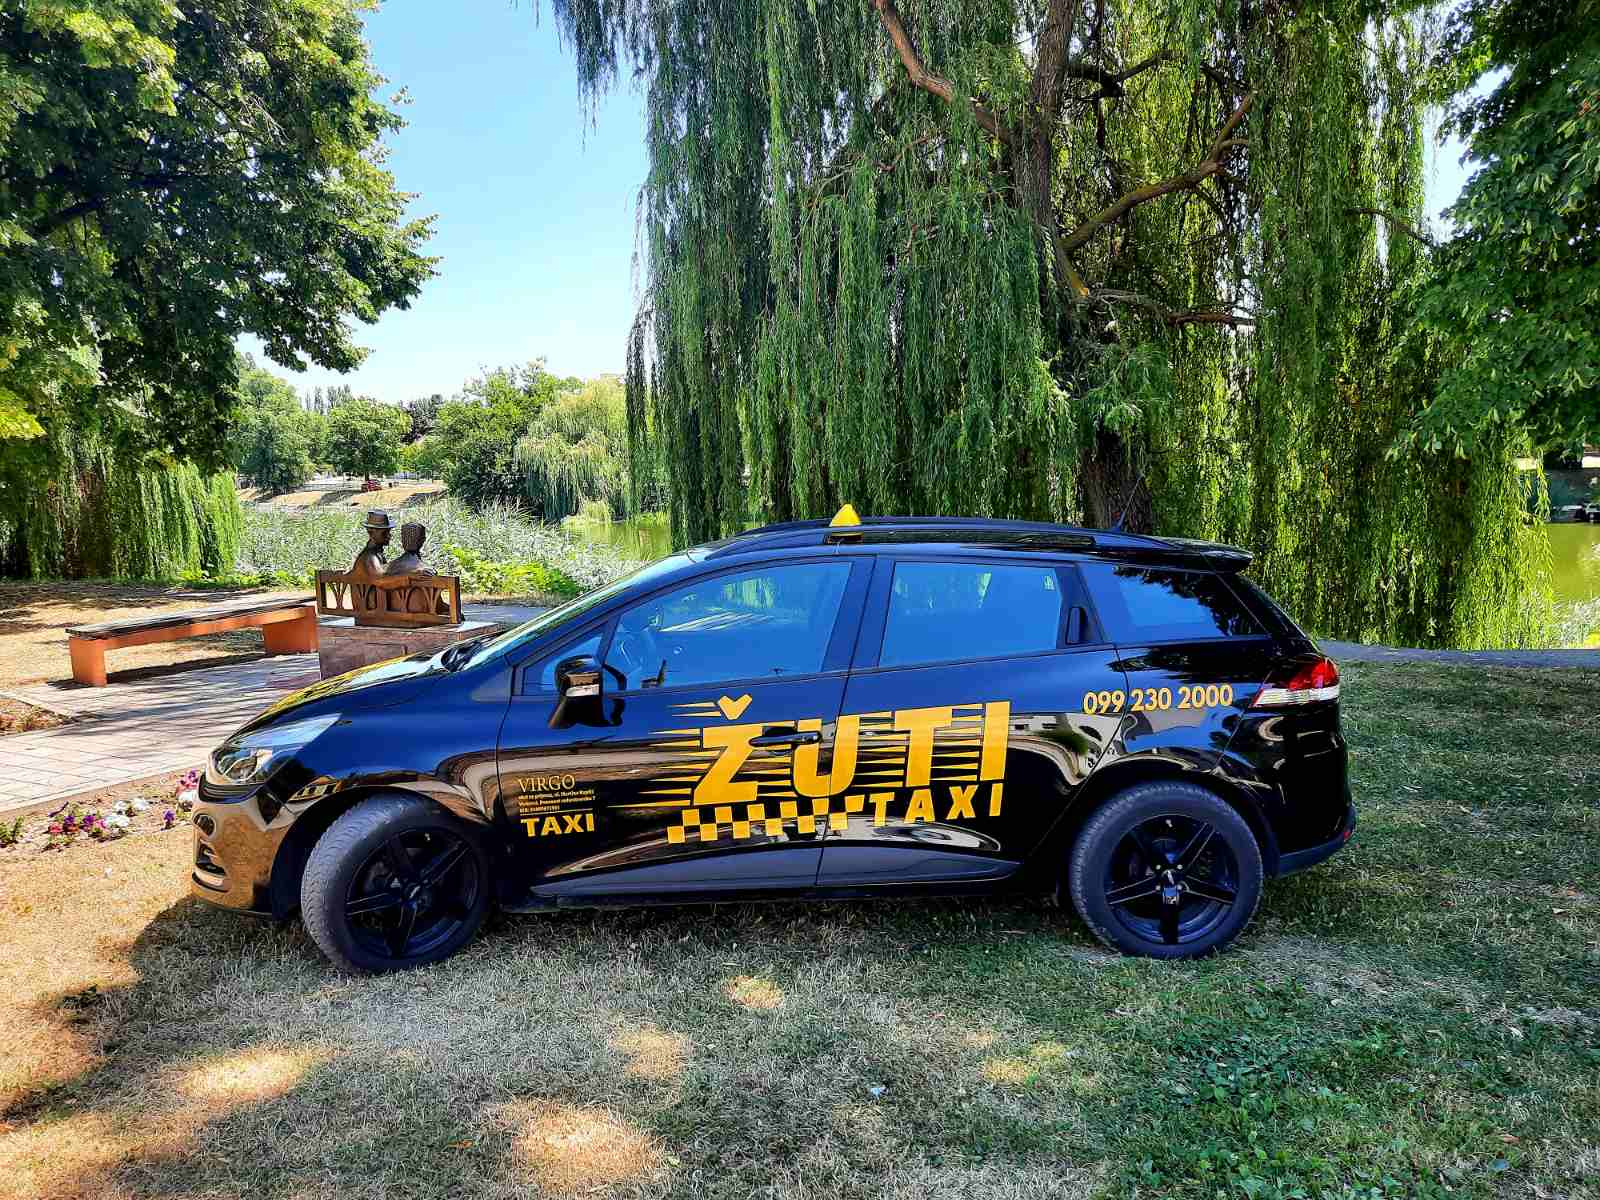
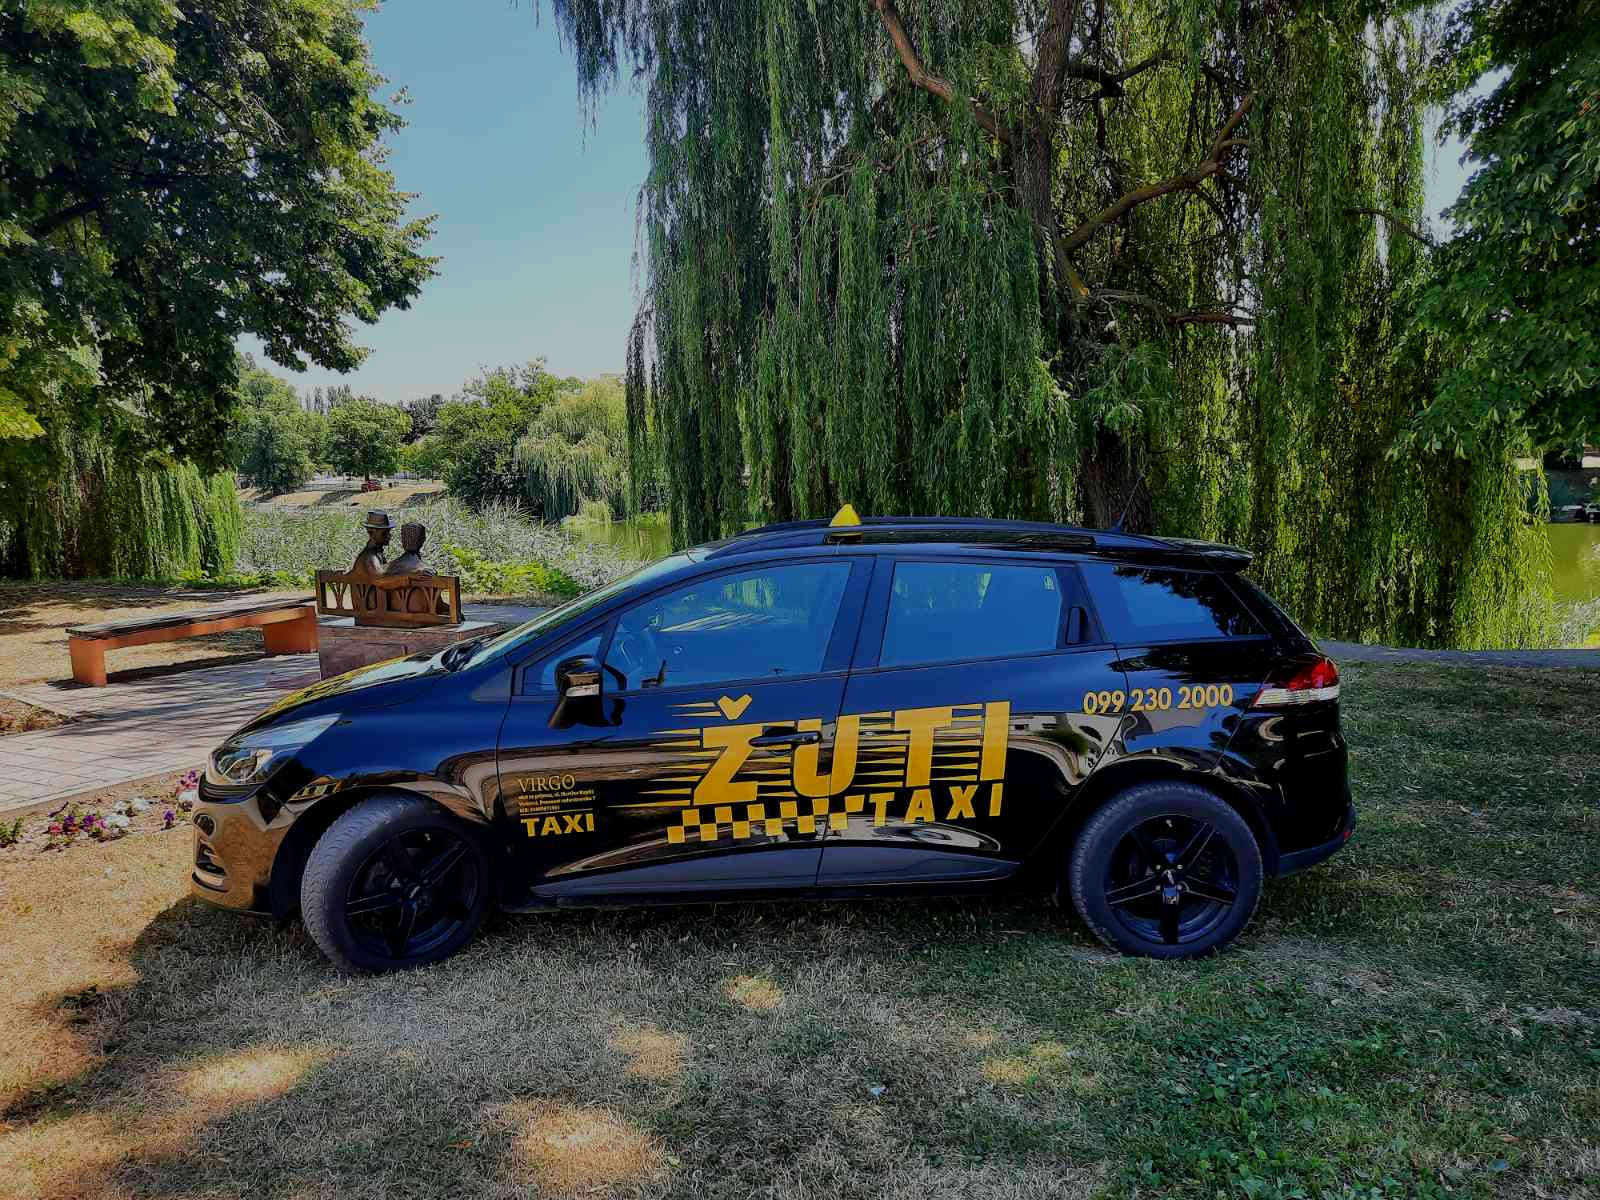
added routing, added carousel

diff --git a/src/Home.jsx b/src/Home.jsx
@@ -10,9 +10,6 @@ import PlavaVinkovacka from "./assets/images/PlavaVinkovacka.png";
 import OptikaMarko from "./assets/images/OptikaMarko.jpg";
 import Pattern from "./assets/images/blackAndYellow.png";
 import Facebook from "./assets/images/Facebook.png";
-import Whatsapp from "./assets/images/Whatsapp.png";
-import Viber from "./assets/images/Viber.png";
-import WhatsappLogo from "./assets/images/Whatsapp_logo.png";
 import PhoneInvert from "./assets/images/PhoneInvert.png";
 import WhatsappInvert from "./assets/images/WhatsappInvert.png";
 import ViberButton from "./assets/images/ViberButton.png";
@@ -20,21 +17,27 @@ import FacebookInvert from "./assets/images/FacebookInvert.png";
 import leftArrow from "./assets/images/LeftArrow.png";
 import rightArrow from "./assets/images/RightArrow.png";
 import HomeEn from "./HomeEn";
+import DemoCarousel from "./DemoCarousel";
+
 const Home = () => {
+  // var Carousel = require("react-responsive-carousel").Carousel;
+
   return (
     <div>
       {/* NUMBER NAVBAR */}
       <div className="sticky top-0 z-10">
         <div className="flex justify-center bg-taxiBlack py-2">
-          <div className="flex justify-between ">
-            <div>
-              <img src={Phone} className="w-8 pr-2" />
+          <a href="tel:+385992302000">
+            <div className="flex justify-between ">
+              <div>
+                <img src={Phone} className="w-8 pr-2" />
+              </div>
+              <h1 className="text-taxiYellow font-bold pr-2">099 230 2000</h1>
+              <div>
+                <img src={Phone} className="w-8 pr-2" />
+              </div>
             </div>
-            <h1 className="text-taxiYellow font-bold pr-2">099 230 2000</h1>
-            <div>
-              <img src={Phone} className="w-8 pr-2" />
-            </div>
-          </div>
+          </a>
         </div>
       </div>
       {/* NAVBAR */}
@@ -111,25 +114,8 @@ const Home = () => {
       {/* IMG TEMP  */}
       <div className="w-full h-8 blackAndYellow"></div>
       {/* NASLOVNA */}
-      <div className="overflow-hidden taxiTEMP">
-        <div className="flex flex-col w-screen h-[82vh] justify-around py-36 md:py-auto md:justify-center md:gap-24">
-          <div className="flex items-center justify-center">
-            <div className="flex">
-              <div className="md:p-8 bg-taxiBlack text-taxiYellow mx-8 md:mx-auto md:px-auto  text-2xl md:text-4xl font-semibold rounded-xl text-center">
-                <h1 className>Najbolja Taxi Služba u Vinkovcima i okolici!</h1>
-              </div>
-            </div>
-          </div>
-          <div className="flex flex-row justify-center md:justify-between px-4 items-center">
-            <img src={leftArrow} className="h-4 md:h-16 hidden md:block" />
-            <a href="tel:+385992302000">
-              <h1 className="text-3xl md:text-7xl font-extrabold bg-taxiBlack p-4 md:p-12 rounded-xl text-taxiYellow">
-                099 230 2000
-              </h1>
-            </a>
-            <img src={rightArrow} className="h-4 md:h-16 hidden md:block" />
-          </div>
-        </div>
+      <div className="hidden md:block">
+        <DemoCarousel />
       </div>
       {/* CJENIK I KONTAKT  */}
       <div className="overflow-x-hidden" id="kontakt">
@@ -224,7 +210,7 @@ const Home = () => {
             <div className="flex md:hidden justify-center pt-8 pb-12 font-bold text-3xl md:text-4xl text-taxiBlack">
               <h1>Kontakt</h1>
             </div>
-            <section className="flex md:hidden flex-col md:flex-row md:h-96 justify-center text-center md:gap-x-16 mx-8 md:mx-auto mb-12 text-taxiYellow">
+            <section className="flex md:hidden flex-col md:flex-row md:h-96 justify-center text-center md:gap-x-16 mx-8 md:mx-auto text-taxiYellow">
               <article className="bg-taxiBlack backdrop-blur-none rounded-[16px] p-8 md:basis-1/4 mb-12 md:mb-auto h-full">
                 <div className="flex justify-center">
                   <span className="p-8 absolute glassmorphismBlack rounded-full top-[-2rem]"></span>

diff --git a/src/HomeEn.jsx b/src/HomeEn.jsx
@@ -3,22 +3,19 @@ import Logo from "./assets/images/Logo.png";
 import HRV from "./assets/images/HRV.png";
 import ENG from "./assets/images/ENG.png";
 import { Link as Link1 } from "react-scroll";
+import { Link } from "react-router-dom";
 import Phone from "./assets/images/Phone.png";
 import ImgTemp from "./components/ImgTemp";
 import PlavaVinkovacka from "./assets/images/PlavaVinkovacka.png";
 import OptikaMarko from "./assets/images/OptikaMarko.jpg";
 import Pattern from "./assets/images/blackAndYellow.png";
 import Facebook from "./assets/images/Facebook.png";
-import Whatsapp from "./assets/images/Whatsapp.png";
-import Viber from "./assets/images/Viber.png";
-import WhatsappLogo from "./assets/images/Whatsapp_logo.png";
 import PhoneInvert from "./assets/images/PhoneInvert.png";
 import WhatsappInvert from "./assets/images/WhatsappInvert.png";
 import ViberButton from "./assets/images/ViberButton.png";
 import FacebookInvert from "./assets/images/FacebookInvert.png";
 import leftArrow from "./assets/images/LeftArrow.png";
 import rightArrow from "./assets/images/RightArrow.png";
-import { Link } from "react-router-dom";
 const HomeEn = () => {
   return (
     <div>
@@ -53,7 +50,7 @@ const HomeEn = () => {
               duration={500}
               className="pr-8 text-lg"
             >
-              <button>Naslovna </button>
+              <button>Home</button>
             </Link1>
             <Link1
               to="cjenik"
@@ -63,7 +60,7 @@ const HomeEn = () => {
               duration={500}
               className="pr-8 text-lg"
             >
-              <button>Cjenik</button>
+              <button>Pricing</button>
             </Link1>
             <Link1
               to="kontakt"
@@ -73,7 +70,7 @@ const HomeEn = () => {
               duration={500}
               className="text-lg"
             >
-              <button>Kontakt</button>
+              <button>Contact Us</button>
             </Link1>
           </div>
           <div className="hidden w-full md:flex md:flex-row md:w-auto relative">
@@ -83,8 +80,8 @@ const HomeEn = () => {
               }}
             >
               <div className="flex justify-around cursor-pointer w-full gap-2">
-                <img src={HRV} alt="" className="w-6 h-6" />
-                <span className="">HR</span>
+                <img src={ENG} alt="" className="w-6 h-6" />
+                <span className="">EN</span>
                 <span>&#9660;</span>
 
                 <div

diff --git a/src/DemoCarousel.jsx b/src/DemoCarousel.jsx
@@ -1,0 +1,45 @@
+import React, { Component } from "react";
+import ReactDOM from "react-dom";
+import "react-responsive-carousel/lib/styles/carousel.min.css"; // requires a loader
+import { Carousel } from "react-responsive-carousel";
+import PlavaVinkovacka from "./assets/images/PlavaVinkovacka.png";
+import Taxi from "./assets/images/taxiTEMPDark.png";
+import TaxiOne from "./assets/images/taxiTEMPone.jpg";
+import TaxiTwo from "./assets/images/taxiTEMPtwo.jpg";
+
+class DemoCarousel extends Component {
+  render() {
+    return (
+      <Carousel
+        autoPlay={true}
+        swipeable={true}
+        infiniteLoop={true}
+        selectedItem={0}
+        stopOnHover={false}
+        showThumbs={false}
+        dynamicHeight={false}
+      >
+        <div className="h-[82vh] ">
+          <img
+            src={Taxi}
+            className="w-auto h-full object-cover object-center"
+          />
+        </div>
+        <div className="h-[82vh] object-cover">
+          <img
+            src={TaxiOne}
+            className="w-auto h-full object-cover object-center"
+          />
+        </div>
+        <div className="h-[82vh] object-cover">
+          <img
+            src={TaxiTwo}
+            className="w-auto h-full object-cover object-center"
+          />
+        </div>
+      </Carousel>
+    );
+  }
+}
+
+export default DemoCarousel;

diff --git a/src/App.jsx b/src/App.jsx
@@ -1,10 +1,10 @@
 import React, { useState } from "react";
-import Navbar from "./components/Navbar";
-import NumberNavbar from "./components/NumberNavbar";
-import Naslovna from "./pages/Naslovna";
-import Footer from "./components/Footer";
-import ImgTemp from "./components/ImgTemp";
-import CjenikKontakt from "./pages/CjenikKontakt";
+// import Navbar from "./components/Navbar";
+// import NumberNavbar from "./components/NumberNavbar";
+// import Naslovna from "./pages/Naslovna";
+// import Footer from "./components/Footer";
+// import ImgTemp from "./components/ImgTemp";
+// import CjenikKontakt from "./pages/CjenikKontakt";
 import Home from "./Home";
 import HomeEn from "./HomeEn";
 import { Routes, Route } from "react-router-dom";
@@ -13,8 +13,9 @@ const App = () => {
     <div>
       <Routes>
         <Route index element={<Home />}></Route>
-        <Route path="/en" element={<HomeEn />}></Route>
-        <Route path="/hr" element={<Home />}></Route>
+        <Route path="/en" element={<HomeEn />} />
+        <Route path="/hr" element={<Home />} />
+        <Route path="*" element={<Home />} />
       </Routes>
 
       {/* <NumberNavbar />

diff --git a/src/App.css b/src/App.css
@@ -14,7 +14,7 @@
 }
 
 .taxiTEMP {
-  background: url("assets/images/taxiTEMP.png") no-repeat center fixed;
+  background: url("assets/images/taxiTEMPDark.png") no-repeat center fixed;
   -webkit-background-size: cover;
   -moz-background-size: cover;
   -o-background-size: cover;

diff --git a/README.md b/README.md
@@ -1,8 +1,7 @@
 # TO-DO
 
-- animations
-- gallery swiping
 - facebook iframe
-- center strelice
+
 - clean up code
 - sync up Home and HomeEn
+- put together the background and the foreground in the yellow images in kontakt
